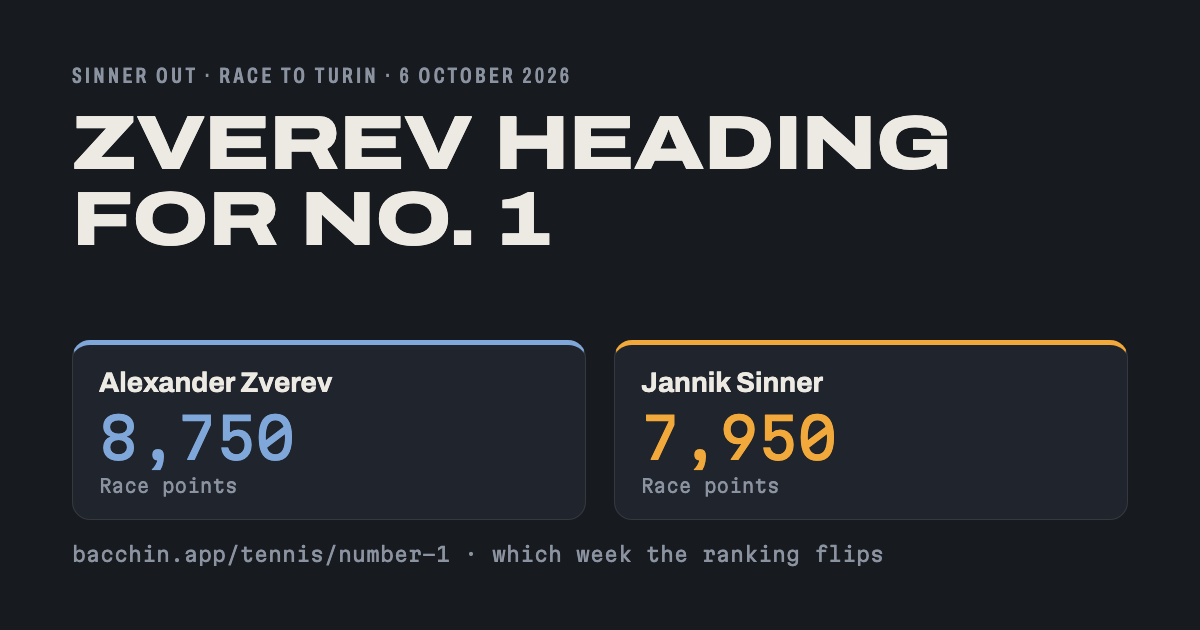
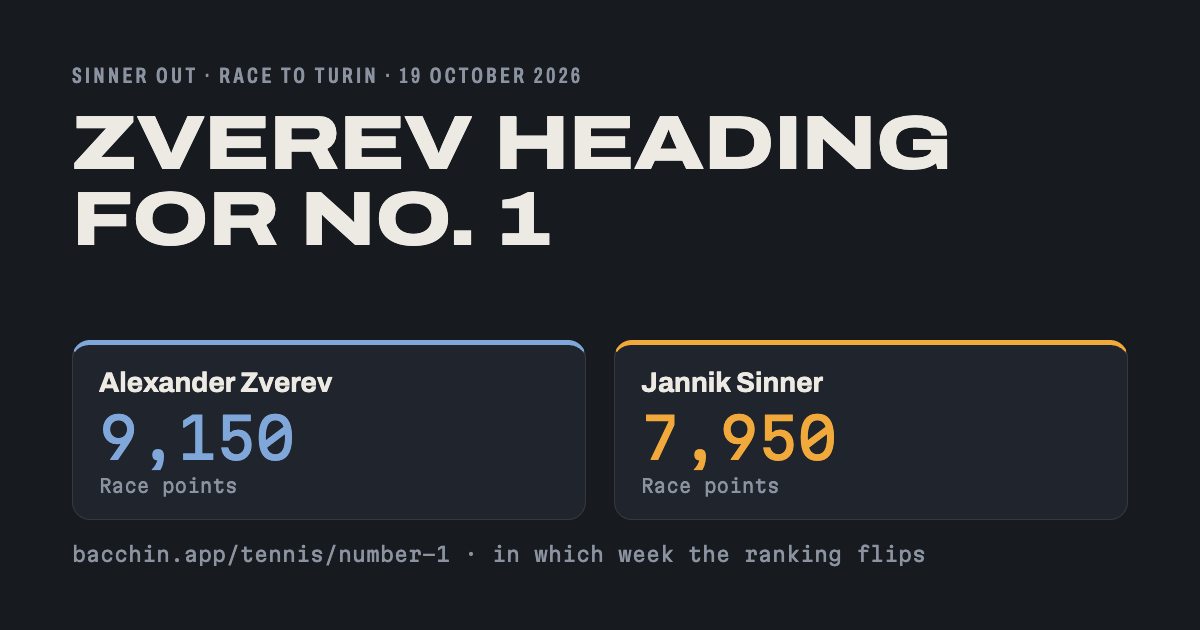
Simulatore ATP: punti al 19 ottobre 2026
Tolto Shanghai. Scadenze 2025 contate per settimana: Vienna e Basilea 2025 escono il 26 ottobre, Parigi 2025 il 2 novembre.

diff --git a/tennis/numero-1.html b/tennis/numero-1.html
@@ -4,9 +4,9 @@
 <meta charset="UTF-8">
 <meta name="viewport" content="width=device-width, initial-scale=1.0, viewport-fit=cover">
 <title>Zverev verso il numero 1 ATP: quando sorpassa Sinner? Simulatore 2026</title>
-<meta name="description" content="Sinner ha chiuso la stagione per l'infortunio al ginocchio e resta a 7.950 punti: Zverev ne ha già 8.750. Scegli i risultati di Zverev da Shanghai alle ATP Finals e vedi in quale settimana diventa numero 1.">
+<meta name="description" content="Sinner ha chiuso la stagione per l'infortunio al ginocchio e resta a 7.950 punti: Zverev ne ha già 9.150. Scegli i risultati di Zverev da Vienna e Basilea alle ATP Finals e vedi in quale settimana diventa numero 1.">
 <meta property="og:title" content="Sinner fermo, Zverev verso il numero 1: quando arriva il sorpasso">
-<meta property="og:description" content="Zverev è davanti di 800 punti nella Race e Sinner non gioca più nel 2026. Scegli i risultati da Shanghai a Torino e guarda in quale settimana cambia il numero 1.">
+<meta property="og:description" content="Zverev è davanti di 1.200 punti nella Race e Sinner non gioca più nel 2026. Scegli i risultati da Vienna a Torino e guarda in quale settimana cambia il numero 1.">
 <meta property="og:type" content="website">
 <meta property="og:url" content="https://bacchin.app/tennis/numero-1">
 <meta property="og:image" content="https://bacchin.app/tennis/numero-1.png">
@@ -89,7 +89,7 @@
     <p class="avviso-lingua" id="avviso-lingua" hidden><a id="avviso-lingua-link" href="/tennis/number-1" hreflang="en" lang="en">This page is available in English →</a></p>
     <p class="etichetta" data-t="occhiello">Simulatore · classifica ATP 2026</p>
     <h1 data-t="titolo">Sinner fermo, Zverev verso il numero 1: quando arriva il sorpasso?</h1>
-    <p class="tesi" data-t="tesi">Sinner ha chiuso la stagione per l'infortunio al ginocchio: non farà altri punti e a fine anno resterà a 7.950. Zverev ne ha già 8.750 nella Race, quindi finirà il 2026 davanti a lui. Resta da capire quando lo supera in classifica: scegli i risultati di Zverev e guarda in quale settimana diventa numero 1.</p>
+    <p class="tesi" data-t="tesi">Sinner ha chiuso la stagione per l'infortunio al ginocchio: non farà altri punti e a fine anno resterà a 7.950. Zverev ne ha già 9.150 nella Race, quindi finirà il 2026 davanti a lui. Resta da capire quando lo supera in classifica: scegli i risultati di Zverev e guarda in quale settimana diventa numero 1.</p>
     <p class="lingua etichetta"><a id="altra-lingua" href="/tennis/number-1" hreflang="en">English</a></p>
   </div>
 
@@ -103,18 +103,18 @@
       </div>
       <div class="scarto">
         <span class="etichetta" data-t="distacco">Distacco</span>
-        <span class="scarto__valore" id="scarto">800</span>
+        <span class="scarto__valore" id="scarto">1.200</span>
       </div>
       <div class="giocatore giocatore--z">
         <div class="giocatore__nome">Alexander Zverev</div>
-        <div class="giocatore__punti" id="punti-z">8.750</div>
+        <div class="giocatore__punti" id="punti-z">9.150</div>
         <div class="giocatore__sotto" id="sotto-z"></div>
       </div>
     </div>
     <div class="verdetto" id="verdetto"></div>
 
     <h2 data-t="h-tornei">I tornei che restano</h2>
-    <p data-t="istruzioni">Per ogni torneo scegli fin dove arriva Zverev. Sinner non gioca: i suoi punti del 2025 escono comunque dalla classifica ATP la settimana del torneo.</p>
+    <p data-t="istruzioni">Per ogni torneo scegli fin dove arriva Zverev. Sinner non gioca: i suoi punti del 2025 escono comunque dalla classifica ATP.</p>
     <div class="comandi">
       <button type="button" data-preset="2025" data-t="p-2025">Zverev come nel 2025</button>
       <button type="button" data-preset="zverev" data-t="p-zverev">Zverev vince tutto</button>
@@ -124,7 +124,7 @@
     <div class="tornei" id="tornei"></div>
 
     <h2 data-t="h-settimane">La classifica ATP, settimana per settimana</h2>
-    <p data-t="settimane-intro">La classifica ATP conta gli ultimi 12 mesi: a ogni torneo entrano i punti nuovi ed escono quelli dello stesso torneo del 2025. Fanno eccezione le Finals: i punti del 2025 escono lunedì 16 novembre, prima che il torneo finisca. Dopo le Finals restano solo i punti del 2026: la classifica coincide con la Race.</p>
+    <p data-t="settimane-intro">La classifica ATP conta le ultime 52 settimane: i punti del 2025 escono 52 settimane dopo, non quando si gioca lo stesso torneo nel 2026. Nel 2026 Shanghai è finito più tardi, quindi i punti di Vienna e Basilea 2025 escono il 26 ottobre e quelli di Parigi 2025 il 2 novembre, una settimana prima dei tornei 2026. Quelli delle Finals 2025 escono lunedì 16 novembre, prima che il torneo finisca. Dopo le Finals restano solo i punti del 2026: la classifica coincide con la Race.</p>
     <div class="scorri">
       <table class="tabella">
         <thead><tr><th data-t="quando">Quando</th><th class="num">Sinner</th><th class="num">Zverev</th><th data-t="n1">N. 1</th></tr></thead>
@@ -148,15 +148,18 @@
 (function () {
   'use strict';
 
-  // ── Dati al 6 ottobre 2026, dopo Pechino ───────────────────────────────
-  // Classifica live e Race: live-tennis.eu, senza i 10 punti provvisori di Shanghai (Zverev).
-  // Sinner ha annunciato il 6 ottobre la fine della stagione (ginocchio): non gioca più nel 2026.
-  //   Sinner 11.000 − (50 + 500 + 1000 + 1500) = 7.950 = Race
-  //   Zverev  9.710 − (50 + 330 +  400 +  200) = 8.730, ma la Race dice 8.750: 20 punti di differenza
-  //   non spiegati (prima di Pechino i conti tornavano). Per questo la riga di fine anno usa la Race.
+  // ── Dati al 19 ottobre 2026, dopo Shanghai ─────────────────────────────
+  // Classifica ATP ufficiale del 19 ottobre (OA Sport, ANSA) = live-tennis.eu + i punti difesi questa settimana.
+  // Race: live-tennis.eu. Zverev a Shanghai: semifinale, 400 punti. Sinner non gioca più nel 2026 (ginocchio).
+  // Le scadenze 2025 contano per settimana: Shanghai 2026 è finito il 18 ottobre, quindi
+  //   Vienna e Basilea 2025 escono il 26 ottobre, Parigi 2025 il 2 novembre, le Finals 2025 il 16 novembre.
+  //   Sinner 10.950 − (500 + 1000 + 1500) = 7.950 = Race
+  //   Zverev 10.070 − (330 +  400 +  200) = 9.140, la Race dice 9.150: 10 punti di differenza
+  //   (il 6 ottobre erano 20; live-tennis.eu dà 320 punti in scadenza per Vienna, probabile regola dei 19 tornei).
+  //   Per questo la riga di fine anno usa la Race.
   var BASE = {
-    s: { classifica: 11000, race: 7950 },
-    z: { classifica: 9710, race: 8750 }
+    s: { classifica: 10950, race: 7950 },
+    z: { classifica: 10070, race: 9150 }
   };
 
   var CAT = {
@@ -170,15 +173,12 @@
 
   // cade: i punti 2025 che escono dalla classifica ATP con questo torneo
   var TORNEI = [
-    { id: 'sha', cat: 'M1000', nome: { it: 'Shanghai', en: 'Shanghai' }, quando: { it: '7 – 18 ottobre', en: '7 – 18 October' },
-      s: { cade: 50, fuori: true, nota: { it: 'Infortunato, stagione finita. Escono i 50 punti del 2025', en: 'Injured, season over. His 50 points from 2025 drop' } },
-      z: { cade: 50, nota: { it: '2025: terzo turno, 50 punti', en: '2025: third round, 50 points' } } },
     { id: 'a500', cat: 'A500', nome: { it: 'Vienna o Basilea', en: 'Vienna or Basel' }, quando: { it: '26 ott – 1 nov', en: '26 Oct – 1 Nov' },
-      s: { cade: 500, fuori: true, nota: { it: 'Infortunato, stagione finita. Escono i 500 punti di Vienna 2025', en: 'Injured, season over. His 500 points from Vienna 2025 drop' } },
-      z: { cade: 330, nota: { it: '2025: finale a Vienna, 330 punti', en: '2025: Vienna final, 330 points' } } },
+      s: { cade: 500, fuori: true, nota: { it: 'Infortunato, stagione finita. Il 26 ottobre escono i 500 punti di Vienna 2025', en: 'Injured, season over. His 500 points from Vienna 2025 drop on 26 October' } },
+      z: { cade: 330, nota: { it: '2025: finale a Vienna, 330 punti, escono il 26 ottobre', en: '2025: Vienna final, 330 points, dropping on 26 October' } } },
     { id: 'par', cat: 'M1000', nome: { it: 'Parigi', en: 'Paris' }, quando: { it: '2 – 8 novembre', en: '2 – 8 November' },
-      s: { cade: 1000, fuori: true, nota: { it: 'Infortunato, stagione finita. Escono i 1.000 punti del 2025', en: 'Injured, season over. His 1,000 points from 2025 drop' } },
-      z: { cade: 400, nota: { it: '2025: semifinale, 400 punti', en: '2025: semi-final, 400 points' } } },
+      s: { cade: 1000, fuori: true, nota: { it: 'Infortunato, stagione finita. Il 2 novembre escono i 1.000 punti del 2025', en: 'Injured, season over. His 1,000 points from 2025 drop on 2 November' } },
+      z: { cade: 400, nota: { it: '2025: semifinale, 400 punti, escono il 2 novembre', en: '2025: semi-final, 400 points, dropping on 2 November' } } },
     { id: 'fin', cat: 'FIN', nome: { it: 'ATP Finals, Torino', en: 'ATP Finals, Turin' }, quando: { it: '15 – 22 novembre', en: '15 – 22 November' },
       s: { cade: 1500, fuori: true, nota: { it: 'Infortunato, stagione finita. Il 16 novembre escono i 1.500 punti del 2025', en: 'Injured, season over. His 1,500 points from 2025 drop on 16 November' } },
       z: { cade: 200, nota: { it: '2025: girone, una vittoria, 200 punti', en: '2025: group stage, one win, 200 points' } } }
@@ -186,13 +186,14 @@
 
   // righe della tabella settimanale: tornei già conclusi a quel punto
   var TAPPE = [
-    { dopo: [], it: 'Oggi, 6 ottobre', en: 'Today, 6 October' },
-    { dopo: ['sha'], it: 'Dopo Shanghai, 19 ottobre', en: 'After Shanghai, 19 October' },
-    { dopo: ['sha', 'a500'], it: 'Dopo Vienna e Basilea, 2 novembre', en: 'After Vienna and Basel, 2 November' },
-    { dopo: ['sha', 'a500', 'par'], it: 'Dopo Parigi, 9 novembre', en: 'After Paris, 9 November' },
+    { dopo: [], it: 'Oggi, 19 ottobre', en: 'Today, 19 October' },
+    // le scadenze 2025 contano per settimana: Vienna e Basilea 2025 escono una settimana prima dei tornei 2026
+    { dopo: [], scarta: ['a500'], it: 'Lunedì 26 ottobre, escono Vienna e Basilea 2025', en: 'Monday 26 October, 2025 Vienna and Basel points drop' },
+    { dopo: ['a500'], scarta: ['par'], it: 'Dopo Vienna e Basilea, 2 novembre (escono anche i punti di Parigi 2025)', en: 'After Vienna and Basel, 2 November (2025 Paris points drop too)' },
+    { dopo: ['a500', 'par'], it: 'Dopo Parigi, 9 novembre', en: 'After Paris, 9 November' },
     // i punti delle Finals 2025 escono il lunedì dopo l'ultima settimana di tornei, prima che le Finals finiscano
-    { dopo: ['sha', 'a500', 'par'], scarta: ['fin'], it: 'Lunedì 16 novembre, escono le Finals 2025', en: 'Monday 16 November, 2025 Finals points drop' },
-    { dopo: ['sha', 'a500', 'par', 'fin'], it: 'Fine anno, dopo le Finals', en: 'Year end, after the Finals' }
+    { dopo: ['a500', 'par'], scarta: ['fin'], it: 'Lunedì 16 novembre, escono le Finals 2025', en: 'Monday 16 November, 2025 Finals points drop' },
+    { dopo: ['a500', 'par', 'fin'], it: 'Fine anno, dopo le Finals', en: 'Year end, after the Finals' }
   ];
 
   var ETICHETTE = {
@@ -208,12 +209,12 @@
     it: {
       tutti: 'Tutti gli strumenti', occhiello: 'Simulatore · classifica ATP 2026',
       titolo: 'Sinner fermo, Zverev verso il numero 1: quando arriva il sorpasso?',
-      tesi: 'Sinner ha chiuso la stagione per l\'infortunio al ginocchio: non farà altri punti e a fine anno resterà a 7.950. Zverev ne ha già 8.750 nella Race, quindi finirà il 2026 davanti a lui. Resta da capire quando lo supera in classifica: scegli i risultati di Zverev e guarda in quale settimana diventa numero 1.',
+      tesi: 'Sinner ha chiuso la stagione per l\'infortunio al ginocchio: non farà altri punti e a fine anno resterà a 7.950. Zverev ne ha già 9.150 nella Race, quindi finirà il 2026 davanti a lui. Resta da capire quando lo supera in classifica: scegli i risultati di Zverev e guarda in quale settimana diventa numero 1.',
       'h-fine': 'Classifica di fine anno', distacco: 'Distacco', 'h-tornei': 'I tornei che restano',
-      istruzioni: 'Per ogni torneo scegli fin dove arriva Zverev. Sinner non gioca: i suoi punti del 2025 escono comunque dalla classifica ATP la settimana del torneo.',
+      istruzioni: 'Per ogni torneo scegli fin dove arriva Zverev. Sinner non gioca: i suoi punti del 2025 escono comunque dalla classifica ATP.',
       'p-2025': 'Zverev come nel 2025', 'p-zverev': 'Zverev vince tutto', 'p-zero': 'Azzera', condividi: 'Condividi lo scenario',
       'h-settimane': 'La classifica ATP, settimana per settimana',
-      'settimane-intro': 'La classifica ATP conta gli ultimi 12 mesi: a ogni torneo entrano i punti nuovi ed escono quelli dello stesso torneo del 2025. Fanno eccezione le Finals: i punti del 2025 escono lunedì 16 novembre, prima che il torneo finisca. Dopo le Finals restano solo i punti del 2026: la classifica coincide con la Race.',
+      'settimane-intro': 'La classifica ATP conta le ultime 52 settimane: i punti del 2025 escono 52 settimane dopo, non quando si gioca lo stesso torneo nel 2026. Nel 2026 Shanghai è finito più tardi, quindi i punti di Vienna e Basilea 2025 escono il 26 ottobre e quelli di Parigi 2025 il 2 novembre, una settimana prima dei tornei 2026. Quelli delle Finals 2025 escono lunedì 16 novembre, prima che il torneo finisca. Dopo le Finals restano solo i punti del 2026: la classifica coincide con la Race.',
       quando: 'Quando', n1: 'N. 1', privacy: 'Privacy e assistenza',
       race: 'Race oggi', guadagna: 'punti in più', copiato: 'Link copiato',
       vS: 'Sinner chiude il 2026 da numero 1, con {d} punti di vantaggio.',
@@ -222,17 +223,17 @@
       serve: 'Sinner non gioca più nel 2026 e non può più raggiungerlo.',
       nessuno: 'Nessun risultato scelto: sono i punti della Race di oggi.',
       doppio: 'Due vincitori nello stesso torneo: uno dei due risultati non è possibile.',
-      fonte: 'Punti al 6 ottobre 2026, dopo Pechino: classifica ATP live e Race to Turin da live-tennis.eu, senza i punti provvisori di Shanghai. Sinner ha annunciato il 6 ottobre la fine della stagione per l\'infortunio al ginocchio. Per Zverev la classifica live vale 20 punti in meno di quanto risulta dalla Race: le righe settimanali partono dalla classifica live, quella di fine anno dalla Race, quindi una soglia può spostarsi di 20 punti. Punti per turno secondo il regolamento ATP 2026. Semplificazione: il calcolo somma tutti i risultati e non applica il limite dei 19 tornei che contano. Il confronto riguarda solo Sinner e Zverev. Non è un prodotto ufficiale ATP.'
+      fonte: 'Punti al 19 ottobre 2026, dopo Shanghai: classifica ATP ufficiale del 19 ottobre e Race to Turin da live-tennis.eu; la classifica coincide con quella pubblicata da OA Sport. Sinner ha annunciato il 6 ottobre la fine della stagione per l\'infortunio al ginocchio. Per Zverev la classifica vale 10 punti in meno di quanto risulta dalla Race: le righe settimanali partono dalla classifica, quella di fine anno dalla Race, quindi una soglia può spostarsi di 10 punti. Punti per turno secondo il regolamento ATP 2026. Semplificazione: il calcolo somma tutti i risultati e non applica il limite dei 19 tornei che contano. Il confronto riguarda solo Sinner e Zverev. Non è un prodotto ufficiale ATP.'
     },
     en: {
       tutti: 'All tools', occhiello: 'Simulator · ATP rankings 2026',
       titolo: 'Sinner out, Zverev heading for No. 1: when does the ranking flip?',
-      tesi: 'Sinner has ended his season with a knee injury: he will add no more points and will finish the year on 7,950. Zverev already has 8,750 in the Race, so he will finish 2026 ahead of him. The open question is when he passes him in the ranking: pick Zverev’s results and see in which week he becomes No. 1.',
+      tesi: 'Sinner has ended his season with a knee injury: he will add no more points and will finish the year on 7,950. Zverev already has 9,150 in the Race, so he will finish 2026 ahead of him. The open question is when he passes him in the ranking: pick Zverev’s results and see in which week he becomes No. 1.',
       'h-fine': 'Year-end ranking', distacco: 'Gap', 'h-tornei': 'Remaining events',
-      istruzioni: 'For each event, choose how far Zverev goes. Sinner is not playing: his 2025 points still drop out of the ATP ranking in the week of the event.',
+      istruzioni: 'For each event, choose how far Zverev goes. Sinner is not playing: his 2025 points still drop out of the ATP ranking.',
       'p-2025': 'Zverev as in 2025', 'p-zverev': 'Zverev wins everything', 'p-zero': 'Reset', condividi: 'Share this scenario',
       'h-settimane': 'The ATP ranking, week by week',
-      'settimane-intro': 'The ATP ranking covers the last 12 months: at every event the new points come in and the points from the same event in 2025 drop out. The Finals are the exception: the 2025 points drop on Monday 16 November, before the event ends. After the Finals only 2026 points are left, and the ranking equals the Race.',
+      'settimane-intro': 'The ATP ranking covers the last 52 weeks: 2025 points drop 52 weeks later, not when the same event is played in 2026. Shanghai finished later this year, so the 2025 Vienna and Basel points drop on 26 October and the 2025 Paris points on 2 November, a week before the 2026 events. The 2025 Finals points drop on Monday 16 November, before the event ends. After the Finals only 2026 points are left, and the ranking equals the Race.',
       quando: 'When', n1: 'No. 1', privacy: 'Privacy and support',
       race: 'Race today', guadagna: 'points added', copiato: 'Link copied',
       vS: 'Sinner finishes 2026 as No. 1, {d} points ahead.',
@@ -241,7 +242,7 @@
       serve: 'Sinner is not playing again in 2026 and can no longer catch him.',
       nessuno: 'No results picked yet: these are today’s Race points.',
       doppio: 'Two winners of the same event: one of the two results is not possible.',
-      fonte: 'Points as of 6 October 2026, after Beijing: live ATP ranking and Race to Turin from live-tennis.eu, without the provisional Shanghai points. Sinner announced on 6 October that his season is over because of a knee injury. Zverev’s live ranking is 20 points lower than his Race total implies: the weekly rows start from the live ranking, the year-end row from the Race, and a threshold can move by 20 points. Points per round per the 2026 ATP rules. Simplification: all results are added up; the best-19 rule is not applied. The comparison covers Sinner and Zverev only. Not an official ATP product.'
+      fonte: 'Points as of 19 October 2026, after Shanghai: official ATP ranking of 19 October and Race to Turin from live-tennis.eu; the ranking matches the one published by OA Sport. Sinner announced on 6 October that his season is over because of a knee injury. Zverev’s ranking is 10 points lower than his Race total implies: the weekly rows start from the ranking, the year-end row from the Race, and a threshold can move by 10 points. Points per round per the 2026 ATP rules. Simplification: all results are added up; the best-19 rule is not applied. The comparison covers Sinner and Zverev only. Not an official ATP product.'
     }
   };
 
@@ -344,7 +345,7 @@
     history.replaceState(null, '', location.pathname + location.search + (h ? '#' + h : ''));
   }
 
-  // scenario nel link: #z=sha:W,par:F
+  // scenario nel link: #z=a500:W,par:F
   function codifica() {
     return ['s', 'z'].map(function (g) {
       var k = Object.keys(stato[g]);
@@ -363,8 +364,8 @@
   }
 
   var PRESET = {
-    '2025': { s: {}, z: { sha: 'R32', a500: 'F', par: 'SF', fin: 'RR1' } },
-    zverev: { s: {}, z: { sha: 'W', a500: 'W', par: 'W', fin: 'W3' } },
+    '2025': { s: {}, z: { a500: 'F', par: 'SF', fin: 'RR1' } },
+    zverev: { s: {}, z: { a500: 'W', par: 'W', fin: 'W3' } },
     zero: { s: {}, z: {} }
   };
 

diff --git a/tennis/number-1.html b/tennis/number-1.html
@@ -4,9 +4,9 @@
 <meta charset="UTF-8">
 <meta name="viewport" content="width=device-width, initial-scale=1.0, viewport-fit=cover">
 <title>Zverev heading for ATP No. 1: when does he pass Sinner? 2026 simulator</title>
-<meta name="description" content="Sinner has ended his season with a knee injury and stays on 7,950 points; Zverev already has 8,750. Pick Zverev's results from Shanghai to the ATP Finals and see in which week he becomes world No. 1.">
+<meta name="description" content="Sinner has ended his season with a knee injury and stays on 7,950 points; Zverev already has 9,150. Pick Zverev's results from Vienna and Basel to the ATP Finals and see in which week he becomes world No. 1.">
 <meta property="og:title" content="Sinner out, Zverev heading for No. 1: when does the ranking flip?">
-<meta property="og:description" content="Zverev leads the Race by 800 points and Sinner is not playing again in 2026. Pick the results from Shanghai to Turin and see in which week the No. 1 changes.">
+<meta property="og:description" content="Zverev leads the Race by 1,200 points and Sinner is not playing again in 2026. Pick the results from Vienna to Turin and see in which week the No. 1 changes.">
 <meta property="og:type" content="website">
 <meta property="og:url" content="https://bacchin.app/tennis/number-1">
 <meta property="og:image" content="https://bacchin.app/tennis/number-1.png">
@@ -89,7 +89,7 @@
     <p class="avviso-lingua" id="avviso-lingua" hidden><a id="avviso-lingua-link" href="/tennis/number-1" hreflang="en" lang="en">This page is available in English →</a></p>
     <p class="etichetta" data-t="occhiello">Simulatore · classifica ATP 2026</p>
     <h1 data-t="titolo">Sinner out, Zverev heading for No. 1: when does the ranking flip?</h1>
-    <p class="tesi" data-t="tesi">Sinner has ended his season with a knee injury: he will add no more points and will finish the year on 7,950. Zverev already has 8,750 in the Race, so he will finish 2026 ahead of him. The open question is when he passes him in the ranking: pick Zverev’s results and see in which week he becomes No. 1.</p>
+    <p class="tesi" data-t="tesi">Sinner has ended his season with a knee injury: he will add no more points and will finish the year on 7,950. Zverev already has 9,150 in the Race, so he will finish 2026 ahead of him. The open question is when he passes him in the ranking: pick Zverev’s results and see in which week he becomes No. 1.</p>
     <p class="lingua etichetta"><a id="altra-lingua" href="/tennis/number-1" hreflang="en">English</a></p>
   </div>
 
@@ -103,18 +103,18 @@
       </div>
       <div class="scarto">
         <span class="etichetta" data-t="distacco">Distacco</span>
-        <span class="scarto__valore" id="scarto">800</span>
+        <span class="scarto__valore" id="scarto">1.200</span>
       </div>
       <div class="giocatore giocatore--z">
         <div class="giocatore__nome">Alexander Zverev</div>
-        <div class="giocatore__punti" id="punti-z">8.750</div>
+        <div class="giocatore__punti" id="punti-z">9.150</div>
         <div class="giocatore__sotto" id="sotto-z"></div>
       </div>
     </div>
     <div class="verdetto" id="verdetto"></div>
 
     <h2 data-t="h-tornei">I tornei che restano</h2>
-    <p data-t="istruzioni">Per ogni torneo scegli fin dove arriva Zverev. Sinner non gioca: i suoi punti del 2025 escono comunque dalla classifica ATP la settimana del torneo.</p>
+    <p data-t="istruzioni">Per ogni torneo scegli fin dove arriva Zverev. Sinner non gioca: i suoi punti del 2025 escono comunque dalla classifica ATP.</p>
     <div class="comandi">
       <button type="button" data-preset="2025" data-t="p-2025">Zverev come nel 2025</button>
       <button type="button" data-preset="zverev" data-t="p-zverev">Zverev vince tutto</button>
@@ -124,7 +124,7 @@
     <div class="tornei" id="tornei"></div>
 
     <h2 data-t="h-settimane">La classifica ATP, settimana per settimana</h2>
-    <p data-t="settimane-intro">La classifica ATP conta gli ultimi 12 mesi: a ogni torneo entrano i punti nuovi ed escono quelli dello stesso torneo del 2025. Fanno eccezione le Finals: i punti del 2025 escono lunedì 16 novembre, prima che il torneo finisca. Dopo le Finals restano solo i punti del 2026, e la classifica coincide con la Race.</p>
+    <p data-t="settimane-intro">La classifica ATP conta le ultime 52 settimane: i punti del 2025 escono 52 settimane dopo, non quando si gioca lo stesso torneo nel 2026. Nel 2026 Shanghai è finito più tardi, quindi i punti di Vienna e Basilea 2025 escono il 26 ottobre e quelli di Parigi 2025 il 2 novembre, una settimana prima dei tornei 2026. Quelli delle Finals 2025 escono lunedì 16 novembre, prima che il torneo finisca. Dopo le Finals restano solo i punti del 2026: la classifica coincide con la Race.</p>
     <div class="scorri">
       <table class="tabella">
         <thead><tr><th data-t="quando">Quando</th><th class="num">Sinner</th><th class="num">Zverev</th><th data-t="n1">N. 1</th></tr></thead>
@@ -148,15 +148,18 @@
 (function () {
   'use strict';
 
-  // ── Dati al 6 ottobre 2026, dopo Pechino ───────────────────────────────
-  // Classifica live e Race: live-tennis.eu, senza i 10 punti provvisori di Shanghai (Zverev).
-  // Sinner ha annunciato il 6 ottobre la fine della stagione (ginocchio): non gioca più nel 2026.
-  //   Sinner 11.000 − (50 + 500 + 1000 + 1500) = 7.950 = Race
-  //   Zverev  9.710 − (50 + 330 +  400 +  200) = 8.730, ma la Race dice 8.750: 20 punti di differenza
-  //   non spiegati (prima di Pechino i conti tornavano). Per questo la riga di fine anno usa la Race.
+  // ── Dati al 19 ottobre 2026, dopo Shanghai ─────────────────────────────
+  // Classifica ATP ufficiale del 19 ottobre (OA Sport, ANSA) = live-tennis.eu + i punti difesi questa settimana.
+  // Race: live-tennis.eu. Zverev a Shanghai: semifinale, 400 punti. Sinner non gioca più nel 2026 (ginocchio).
+  // Le scadenze 2025 contano per settimana: Shanghai 2026 è finito il 18 ottobre, quindi
+  //   Vienna e Basilea 2025 escono il 26 ottobre, Parigi 2025 il 2 novembre, le Finals 2025 il 16 novembre.
+  //   Sinner 10.950 − (500 + 1000 + 1500) = 7.950 = Race
+  //   Zverev 10.070 − (330 +  400 +  200) = 9.140, la Race dice 9.150: 10 punti di differenza
+  //   (il 6 ottobre erano 20; live-tennis.eu dà 320 punti in scadenza per Vienna, probabile regola dei 19 tornei).
+  //   Per questo la riga di fine anno usa la Race.
   var BASE = {
-    s: { classifica: 11000, race: 7950 },
-    z: { classifica: 9710, race: 8750 }
+    s: { classifica: 10950, race: 7950 },
+    z: { classifica: 10070, race: 9150 }
   };
 
   var CAT = {
@@ -170,15 +173,12 @@
 
   // cade: i punti 2025 che escono dalla classifica ATP con questo torneo
   var TORNEI = [
-    { id: 'sha', cat: 'M1000', nome: { it: 'Shanghai', en: 'Shanghai' }, quando: { it: '7 – 18 ottobre', en: '7 – 18 October' },
-      s: { cade: 50, fuori: true, nota: { it: 'Infortunato, stagione finita. Escono i 50 punti del 2025', en: 'Injured, season over. His 50 points from 2025 drop' } },
-      z: { cade: 50, nota: { it: '2025: terzo turno, 50 punti', en: '2025: third round, 50 points' } } },
     { id: 'a500', cat: 'A500', nome: { it: 'Vienna o Basilea', en: 'Vienna or Basel' }, quando: { it: '26 ott – 1 nov', en: '26 Oct – 1 Nov' },
-      s: { cade: 500, fuori: true, nota: { it: 'Infortunato, stagione finita. Escono i 500 punti di Vienna 2025', en: 'Injured, season over. His 500 points from Vienna 2025 drop' } },
-      z: { cade: 330, nota: { it: '2025: finale a Vienna, 330 punti', en: '2025: Vienna final, 330 points' } } },
+      s: { cade: 500, fuori: true, nota: { it: 'Infortunato, stagione finita. Il 26 ottobre escono i 500 punti di Vienna 2025', en: 'Injured, season over. His 500 points from Vienna 2025 drop on 26 October' } },
+      z: { cade: 330, nota: { it: '2025: finale a Vienna, 330 punti, escono il 26 ottobre', en: '2025: Vienna final, 330 points, dropping on 26 October' } } },
     { id: 'par', cat: 'M1000', nome: { it: 'Parigi', en: 'Paris' }, quando: { it: '2 – 8 novembre', en: '2 – 8 November' },
-      s: { cade: 1000, fuori: true, nota: { it: 'Infortunato, stagione finita. Escono i 1.000 punti del 2025', en: 'Injured, season over. His 1,000 points from 2025 drop' } },
-      z: { cade: 400, nota: { it: '2025: semifinale, 400 punti', en: '2025: semi-final, 400 points' } } },
+      s: { cade: 1000, fuori: true, nota: { it: 'Infortunato, stagione finita. Il 2 novembre escono i 1.000 punti del 2025', en: 'Injured, season over. His 1,000 points from 2025 drop on 2 November' } },
+      z: { cade: 400, nota: { it: '2025: semifinale, 400 punti, escono il 2 novembre', en: '2025: semi-final, 400 points, dropping on 2 November' } } },
     { id: 'fin', cat: 'FIN', nome: { it: 'ATP Finals, Torino', en: 'ATP Finals, Turin' }, quando: { it: '15 – 22 novembre', en: '15 – 22 November' },
       s: { cade: 1500, fuori: true, nota: { it: 'Infortunato, stagione finita. Il 16 novembre escono i 1.500 punti del 2025', en: 'Injured, season over. His 1,500 points from 2025 drop on 16 November' } },
       z: { cade: 200, nota: { it: '2025: girone, una vittoria, 200 punti', en: '2025: group stage, one win, 200 points' } } }
@@ -186,13 +186,14 @@
 
   // righe della tabella settimanale: tornei già conclusi a quel punto
   var TAPPE = [
-    { dopo: [], it: 'Oggi, 6 ottobre', en: 'Today, 6 October' },
-    { dopo: ['sha'], it: 'Dopo Shanghai, 19 ottobre', en: 'After Shanghai, 19 October' },
-    { dopo: ['sha', 'a500'], it: 'Dopo Vienna e Basilea, 2 novembre', en: 'After Vienna and Basel, 2 November' },
-    { dopo: ['sha', 'a500', 'par'], it: 'Dopo Parigi, 9 novembre', en: 'After Paris, 9 November' },
+    { dopo: [], it: 'Oggi, 19 ottobre', en: 'Today, 19 October' },
+    // le scadenze 2025 contano per settimana: Vienna e Basilea 2025 escono una settimana prima dei tornei 2026
+    { dopo: [], scarta: ['a500'], it: 'Lunedì 26 ottobre, escono Vienna e Basilea 2025', en: 'Monday 26 October, 2025 Vienna and Basel points drop' },
+    { dopo: ['a500'], scarta: ['par'], it: 'Dopo Vienna e Basilea, 2 novembre (escono anche i punti di Parigi 2025)', en: 'After Vienna and Basel, 2 November (2025 Paris points drop too)' },
+    { dopo: ['a500', 'par'], it: 'Dopo Parigi, 9 novembre', en: 'After Paris, 9 November' },
     // i punti delle Finals 2025 escono il lunedì dopo l'ultima settimana di tornei, prima che le Finals finiscano
-    { dopo: ['sha', 'a500', 'par'], scarta: ['fin'], it: 'Lunedì 16 novembre, escono le Finals 2025', en: 'Monday 16 November, 2025 Finals points drop' },
-    { dopo: ['sha', 'a500', 'par', 'fin'], it: 'Fine anno, dopo le Finals', en: 'Year end, after the Finals' }
+    { dopo: ['a500', 'par'], scarta: ['fin'], it: 'Lunedì 16 novembre, escono le Finals 2025', en: 'Monday 16 November, 2025 Finals points drop' },
+    { dopo: ['a500', 'par', 'fin'], it: 'Fine anno, dopo le Finals', en: 'Year end, after the Finals' }
   ];
 
   var ETICHETTE = {
@@ -208,12 +209,12 @@
     it: {
       tutti: 'Tutti gli strumenti', occhiello: 'Simulatore · classifica ATP 2026',
       titolo: 'Sinner fermo, Zverev verso il numero 1: quando arriva il sorpasso?',
-      tesi: 'Sinner ha chiuso la stagione per l\'infortunio al ginocchio: non farà altri punti e a fine anno resterà a 7.950. Zverev ne ha già 8.750 nella Race, quindi finirà il 2026 davanti a lui. Resta da capire quando lo supera in classifica: scegli i risultati di Zverev e guarda in quale settimana diventa numero 1.',
+      tesi: 'Sinner ha chiuso la stagione per l\'infortunio al ginocchio: non farà altri punti e a fine anno resterà a 7.950. Zverev ne ha già 9.150 nella Race, quindi finirà il 2026 davanti a lui. Resta da capire quando lo supera in classifica: scegli i risultati di Zverev e guarda in quale settimana diventa numero 1.',
       'h-fine': 'Classifica di fine anno', distacco: 'Distacco', 'h-tornei': 'I tornei che restano',
-      istruzioni: 'Per ogni torneo scegli fin dove arriva Zverev. Sinner non gioca: i suoi punti del 2025 escono comunque dalla classifica ATP la settimana del torneo.',
+      istruzioni: 'Per ogni torneo scegli fin dove arriva Zverev. Sinner non gioca: i suoi punti del 2025 escono comunque dalla classifica ATP.',
       'p-2025': 'Zverev come nel 2025', 'p-zverev': 'Zverev vince tutto', 'p-zero': 'Azzera', condividi: 'Condividi lo scenario',
       'h-settimane': 'La classifica ATP, settimana per settimana',
-      'settimane-intro': 'La classifica ATP conta gli ultimi 12 mesi: a ogni torneo entrano i punti nuovi ed escono quelli dello stesso torneo del 2025. Fanno eccezione le Finals: i punti del 2025 escono lunedì 16 novembre, prima che il torneo finisca. Dopo le Finals restano solo i punti del 2026, e la classifica coincide con la Race.',
+      'settimane-intro': 'La classifica ATP conta le ultime 52 settimane: i punti del 2025 escono 52 settimane dopo, non quando si gioca lo stesso torneo nel 2026. Nel 2026 Shanghai è finito più tardi, quindi i punti di Vienna e Basilea 2025 escono il 26 ottobre e quelli di Parigi 2025 il 2 novembre, una settimana prima dei tornei 2026. Quelli delle Finals 2025 escono lunedì 16 novembre, prima che il torneo finisca. Dopo le Finals restano solo i punti del 2026: la classifica coincide con la Race.',
       quando: 'Quando', n1: 'N. 1', privacy: 'Privacy e assistenza',
       race: 'Race oggi', guadagna: 'punti in più', copiato: 'Link copiato',
       vS: 'Sinner chiude il 2026 da numero 1, con {d} punti di vantaggio.',
@@ -222,17 +223,17 @@
       serve: 'Sinner non gioca più nel 2026 e non può più raggiungerlo.',
       nessuno: 'Nessun risultato scelto: sono i punti della Race di oggi.',
       doppio: 'Due vincitori nello stesso torneo: uno dei due risultati non è possibile.',
-      fonte: 'Punti al 6 ottobre 2026, dopo Pechino: classifica ATP live e Race to Turin da live-tennis.eu, senza i punti provvisori di Shanghai. Sinner ha annunciato il 6 ottobre la fine della stagione per l\'infortunio al ginocchio. Per Zverev la classifica live vale 20 punti in meno di quanto risulta dalla Race: le righe settimanali partono dalla classifica live, quella di fine anno dalla Race, e una soglia può spostarsi di 20 punti. Punti per turno secondo il regolamento ATP 2026. Semplificazione: il calcolo somma tutti i risultati e non applica il limite dei 19 tornei che contano. Il confronto riguarda solo Sinner e Zverev. Non è un prodotto ufficiale ATP.'
+      fonte: 'Punti al 19 ottobre 2026, dopo Shanghai: classifica ATP ufficiale del 19 ottobre e Race to Turin da live-tennis.eu; la classifica coincide con quella pubblicata da OA Sport. Sinner ha annunciato il 6 ottobre la fine della stagione per l\'infortunio al ginocchio. Per Zverev la classifica vale 10 punti in meno di quanto risulta dalla Race: le righe settimanali partono dalla classifica, quella di fine anno dalla Race, quindi una soglia può spostarsi di 10 punti. Punti per turno secondo il regolamento ATP 2026. Semplificazione: il calcolo somma tutti i risultati e non applica il limite dei 19 tornei che contano. Il confronto riguarda solo Sinner e Zverev. Non è un prodotto ufficiale ATP.'
     },
     en: {
       tutti: 'All tools', occhiello: 'Simulator · ATP rankings 2026',
       titolo: 'Sinner out, Zverev heading for No. 1: when does the ranking flip?',
-      tesi: 'Sinner has ended his season with a knee injury: he will add no more points and will finish the year on 7,950. Zverev already has 8,750 in the Race, so he will finish 2026 ahead of him. The open question is when he passes him in the ranking: pick Zverev’s results and see in which week he becomes No. 1.',
+      tesi: 'Sinner has ended his season with a knee injury: he will add no more points and will finish the year on 7,950. Zverev already has 9,150 in the Race, so he will finish 2026 ahead of him. The open question is when he passes him in the ranking: pick Zverev’s results and see in which week he becomes No. 1.',
       'h-fine': 'Year-end ranking', distacco: 'Gap', 'h-tornei': 'Remaining events',
-      istruzioni: 'For each event, choose how far Zverev goes. Sinner is not playing: his 2025 points still drop out of the ATP ranking in the week of the event.',
+      istruzioni: 'For each event, choose how far Zverev goes. Sinner is not playing: his 2025 points still drop out of the ATP ranking.',
       'p-2025': 'Zverev as in 2025', 'p-zverev': 'Zverev wins everything', 'p-zero': 'Reset', condividi: 'Share this scenario',
       'h-settimane': 'The ATP ranking, week by week',
-      'settimane-intro': 'The ATP ranking covers the last 12 months: at every event the new points come in and the points from the same event in 2025 drop out. The Finals are the exception: the 2025 points drop on Monday 16 November, before the event ends. After the Finals only 2026 points are left, and the ranking equals the Race.',
+      'settimane-intro': 'The ATP ranking covers the last 52 weeks: 2025 points drop 52 weeks later, not when the same event is played in 2026. Shanghai finished later this year, so the 2025 Vienna and Basel points drop on 26 October and the 2025 Paris points on 2 November, a week before the 2026 events. The 2025 Finals points drop on Monday 16 November, before the event ends. After the Finals only 2026 points are left, and the ranking equals the Race.',
       quando: 'When', n1: 'No. 1', privacy: 'Privacy and support',
       race: 'Race today', guadagna: 'points added', copiato: 'Link copied',
       vS: 'Sinner finishes 2026 as No. 1, {d} points ahead.',
@@ -241,7 +242,7 @@
       serve: 'Sinner is not playing again in 2026 and can no longer catch him.',
       nessuno: 'No results picked yet: these are today’s Race points.',
       doppio: 'Two winners of the same event: one of the two results is not possible.',
-      fonte: 'Points as of 6 October 2026, after Beijing: live ATP ranking and Race to Turin from live-tennis.eu, without the provisional Shanghai points. Sinner announced on 6 October that his season is over because of a knee injury. Zverev’s live ranking is 20 points lower than his Race total implies: the weekly rows start from the live ranking, the year-end row from the Race, and a threshold can move by 20 points. Points per round per the 2026 ATP rules. Simplification: all results are added up; the best-19 rule is not applied. The comparison covers Sinner and Zverev only. Not an official ATP product.'
+      fonte: 'Points as of 19 October 2026, after Shanghai: official ATP ranking of 19 October and Race to Turin from live-tennis.eu; the ranking matches the one published by OA Sport. Sinner announced on 6 October that his season is over because of a knee injury. Zverev’s ranking is 10 points lower than his Race total implies: the weekly rows start from the ranking, the year-end row from the Race, and a threshold can move by 10 points. Points per round per the 2026 ATP rules. Simplification: all results are added up; the best-19 rule is not applied. The comparison covers Sinner and Zverev only. Not an official ATP product.'
     }
   };
 
@@ -344,7 +345,7 @@
     history.replaceState(null, '', location.pathname + location.search + (h ? '#' + h : ''));
   }
 
-  // scenario nel link: #z=sha:W,par:F
+  // scenario nel link: #z=a500:W,par:F
   function codifica() {
     return ['s', 'z'].map(function (g) {
       var k = Object.keys(stato[g]);
@@ -363,8 +364,8 @@
   }
 
   var PRESET = {
-    '2025': { s: {}, z: { sha: 'R32', a500: 'F', par: 'SF', fin: 'RR1' } },
-    zverev: { s: {}, z: { sha: 'W', a500: 'W', par: 'W', fin: 'W3' } },
+    '2025': { s: {}, z: { a500: 'F', par: 'SF', fin: 'RR1' } },
+    zverev: { s: {}, z: { a500: 'W', par: 'W', fin: 'W3' } },
     zero: { s: {}, z: {} }
   };
 
